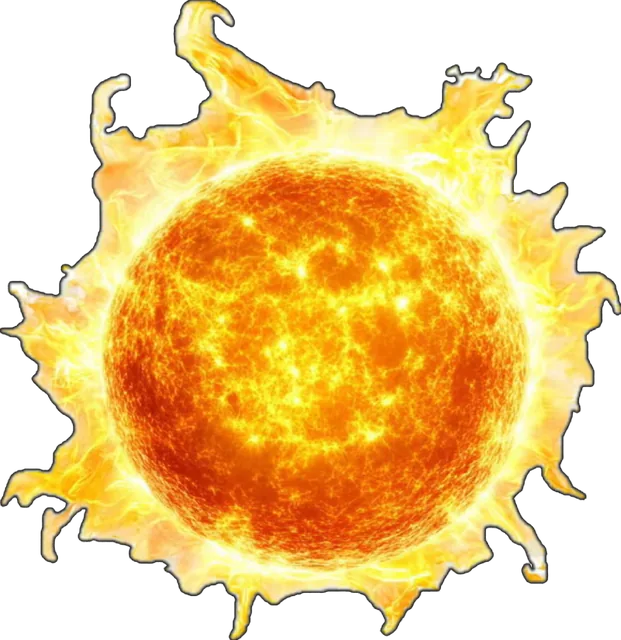
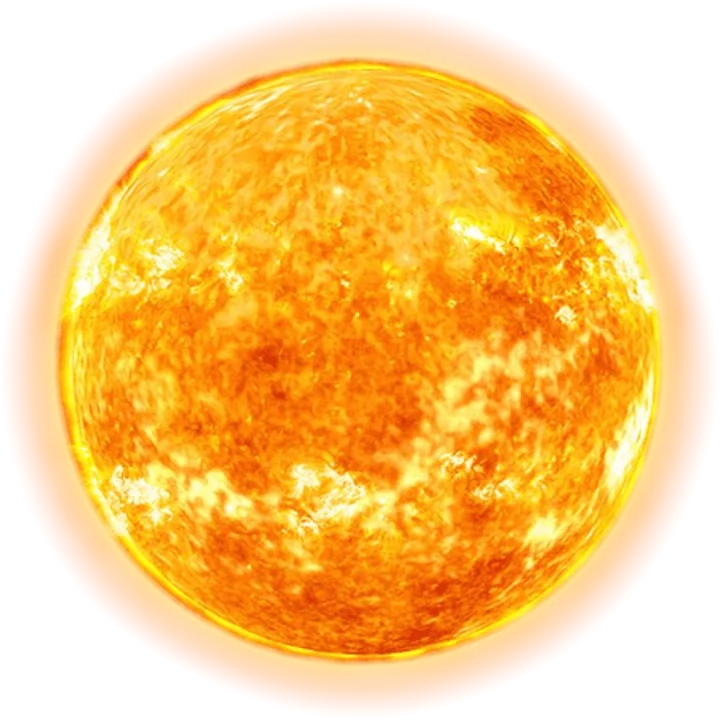
Replace the sun with a clean disk and a light glow on the sun and moon.

diff --git a/src/styles.css b/src/styles.css
@@ -2643,9 +2643,10 @@ details.fold>:not(summary) {
   -webkit-user-drag: none;
 }
 .sun-body {
-  width: calc(1.598rem * 621 / 505);
-  height: calc(1.598rem * 640 / 505);
-  transform: translate(-50.15%, -53.07%);
+  width: calc(1.598rem * 720 / 601.73);
+  height: calc(1.598rem * 720 / 601.73);
+  transform: translate(-49.784%, -50.129%);
+  filter: drop-shadow(0 0 2px #ffe7a8d9) drop-shadow(0 0 8px #ff8a1e59);
 }
 .orbit-moon {
   bottom: -.15rem;
@@ -2654,6 +2655,7 @@ details.fold>:not(summary) {
   width: calc(1.598rem * 630 / 628);
   height: calc(1.598rem * 640 / 628);
   transform: translate(-50%, -50%);
+  filter: drop-shadow(0 0 2px #ffffffeb) drop-shadow(0 0 7px #c5d6ee8c) drop-shadow(0 0 13px #9eb4d459);
 }
 @keyframes orbit-spin {
   to {
